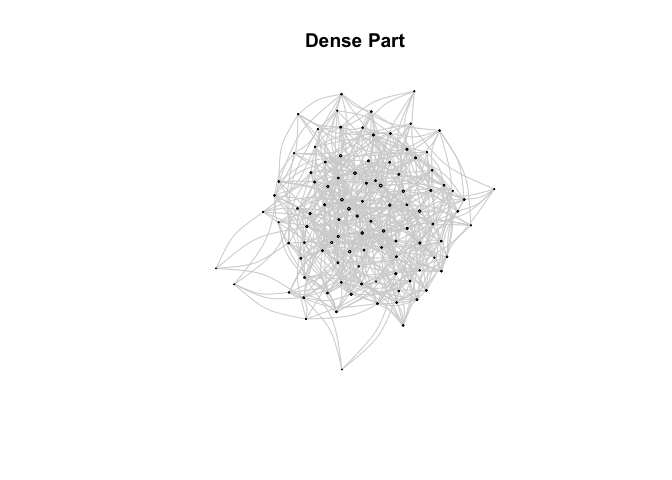
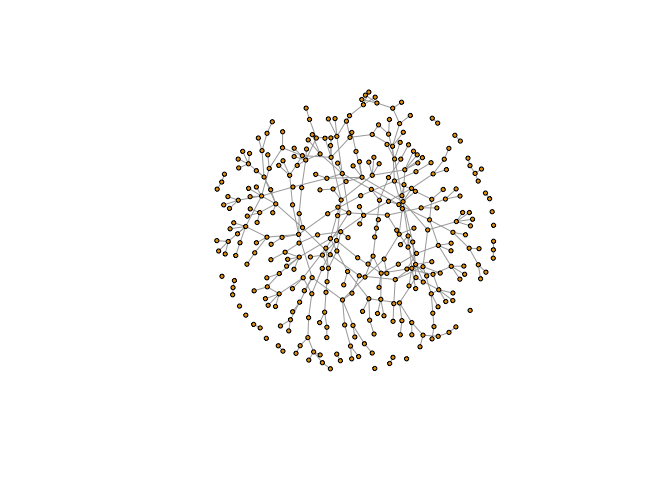
update description

Changed region(s): [[0.3125, 0.1875, 0.75, 0.7812], [0.4375, 0.0625, 0.625, 0.125]]

diff --git a/README.md b/README.md
@@ -59,54 +59,39 @@ plot(gr1,
 
 <img src="man/figures/README-example-1.png" width="100%" />
 
-Or you can generate the two graphs separately and join them.
-
-``` r
-# sample the dense part and plot
-grdense <- sample_graphon(W, 100)
-plot(grdense,
-     edge.curved = 0.3,
-     vertex.size = degree(grdense)*0.1,
-     edge.color = "lightgray",     # Light colored edges
-     vertex.label = NA,
-     vertex.color = "lightblue",
-     main = "Dense Part"
-)
-```
-
-<img src="man/figures/README-unnamed-chunk-2-1.png" width="100%" />
-
-``` r
-
-# sample the sparse part and plot
-grsparse <- generate_star_union(wts, 300)
-plot(grsparse,
-     edge.curved = 0.3,
-     vertex.size = degree(grsparse)*0.1,
-     edge.color = "lightgray",     # Light colored edges
-     vertex.label = NA,
-     vertex.color = "lightblue",
-     main = "Sparse Part"
-)
-```
-
-<img src="man/figures/README-unnamed-chunk-2-2.png" width="100%" />
-
-``` r
-
-# join the two graphs and plot
-gr2 <- graph_join(grdense, grsparse, option = 2)
-plot(gr2,
-     edge.curved = 0.3,
-     vertex.size = degree(gr2)*0.1,
-     edge.color = "lightgray",     # Light colored edges
-     vertex.label = NA,
-     vertex.color = "lightblue",
-     main = "(U,W) Graph mixture"
-)
-```
-
-<img src="man/figures/README-unnamed-chunk-2-3.png" width="100%" />
+<!-- Or you can generate the two graphs separately and join them.  -->
+<!-- ```{r} -->
+<!-- # sample the dense part and plot -->
+<!-- grdense <- sample_graphon(W, 100) -->
+<!-- plot(grdense, -->
+<!--      edge.curved = 0.3, -->
+<!--      vertex.size = degree(grdense)*0.1, -->
+<!--      edge.color = "lightgray",     # Light colored edges -->
+<!--      vertex.label = NA, -->
+<!--      vertex.color = "lightblue", -->
+<!--      main = "Dense Part" -->
+<!-- ) -->
+<!-- # sample the sparse part and plot -->
+<!-- grsparse <- generate_star_union(wts, 300) -->
+<!-- plot(grsparse, -->
+<!--      edge.curved = 0.3, -->
+<!--      vertex.size = degree(grsparse)*0.1, -->
+<!--      edge.color = "lightgray",     # Light colored edges -->
+<!--      vertex.label = NA, -->
+<!--      vertex.color = "lightblue", -->
+<!--      main = "Sparse Part" -->
+<!-- ) -->
+<!-- # join the two graphs and plot -->
+<!-- gr2 <- graph_join(grdense, grsparse, option = 2) -->
+<!-- plot(gr2, -->
+<!--      edge.curved = 0.3, -->
+<!--      vertex.size = degree(gr2)*0.1, -->
+<!--      edge.color = "lightgray",     # Light colored edges -->
+<!--      vertex.label = NA, -->
+<!--      vertex.color = "lightblue", -->
+<!--      main = "(U,W) Graph mixture" -->
+<!-- ) -->
+<!-- ``` -->
 
 ## Graphette example
 
@@ -124,7 +109,7 @@ gr <- sample_graphette(W,
 plot(gr, vertex.label = NA, vertex.size = 3)
 ```
 
-<img src="man/figures/README-unnamed-chunk-3-1.png" width="100%" />
+<img src="man/figures/README-unnamed-chunk-2-1.png" width="100%" />
 
 ## Acknowledgements
 